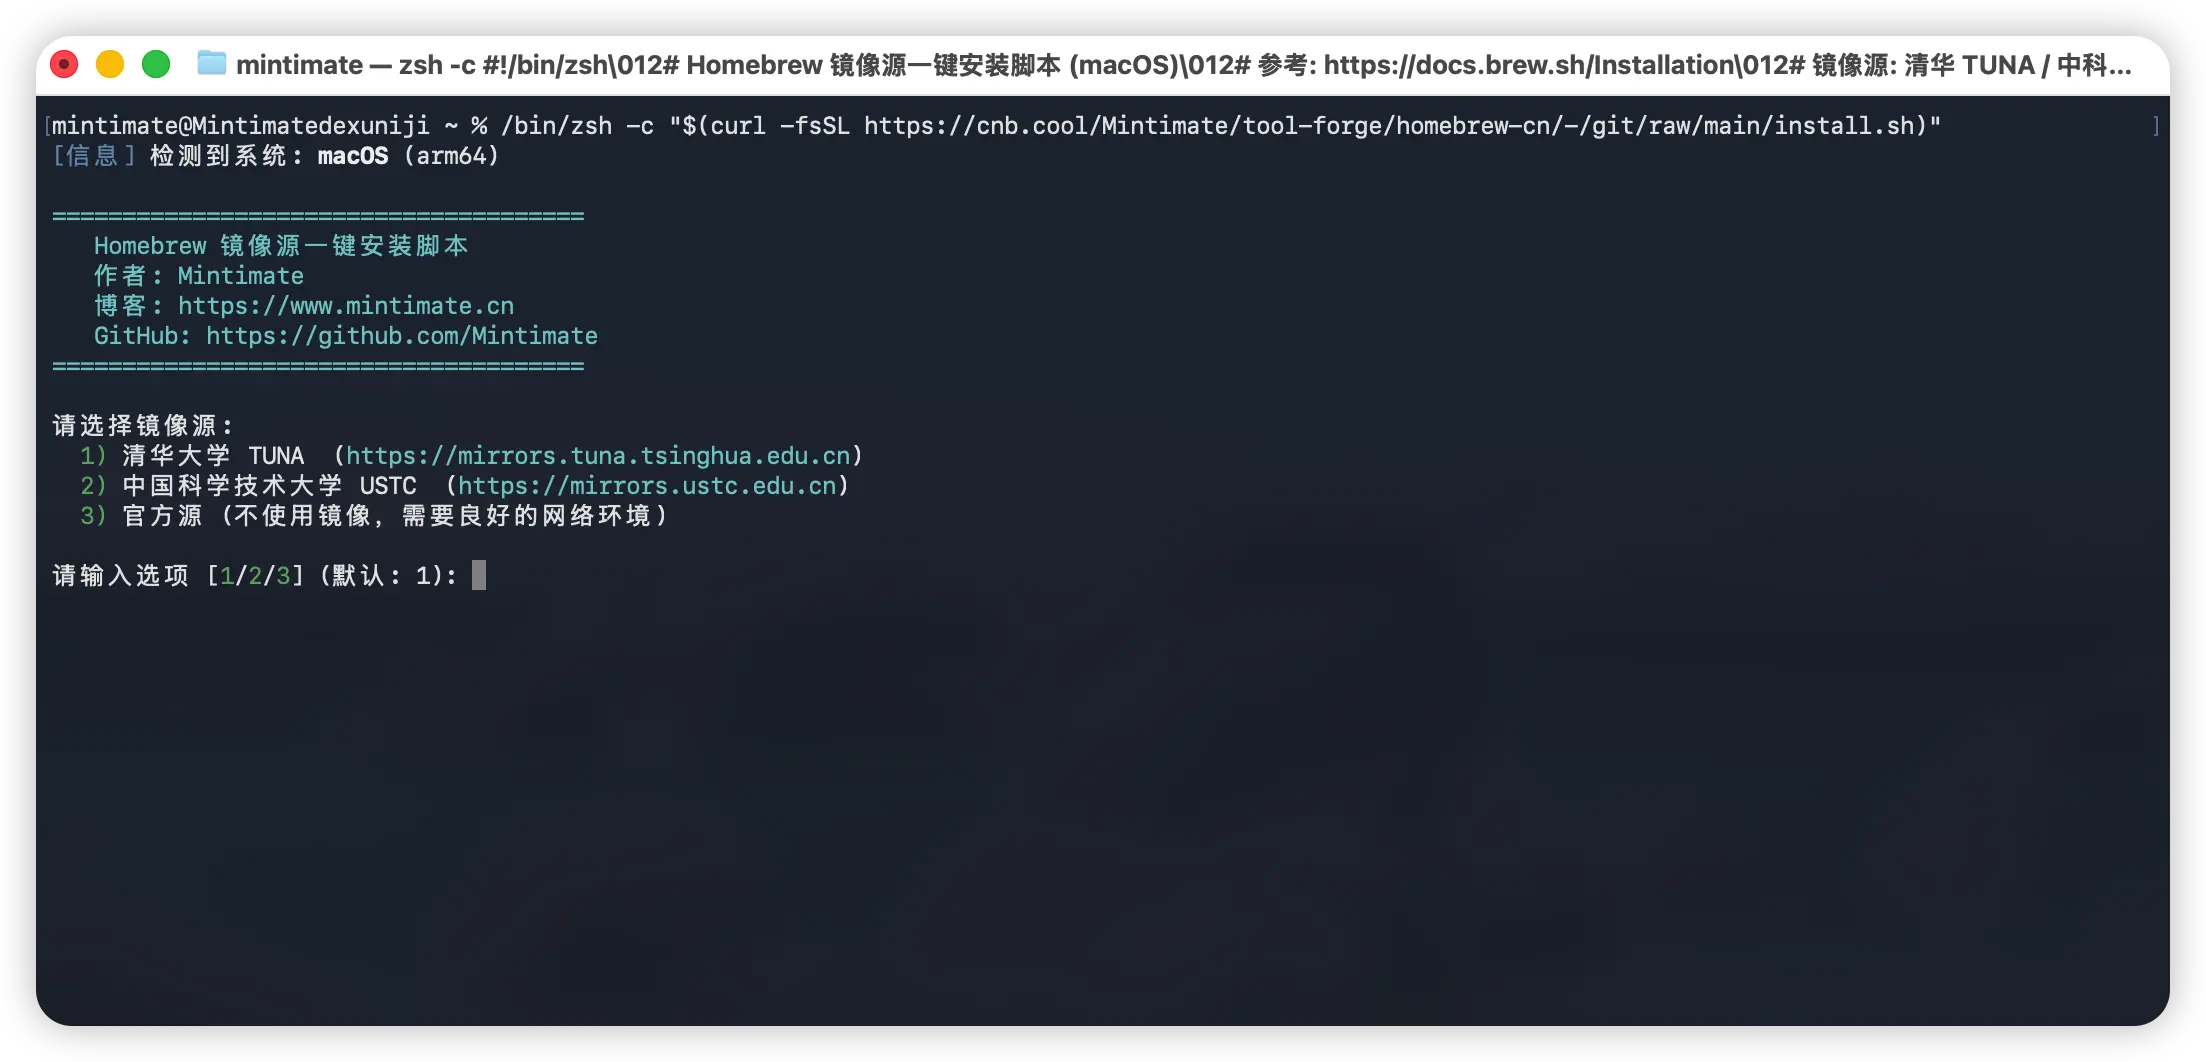
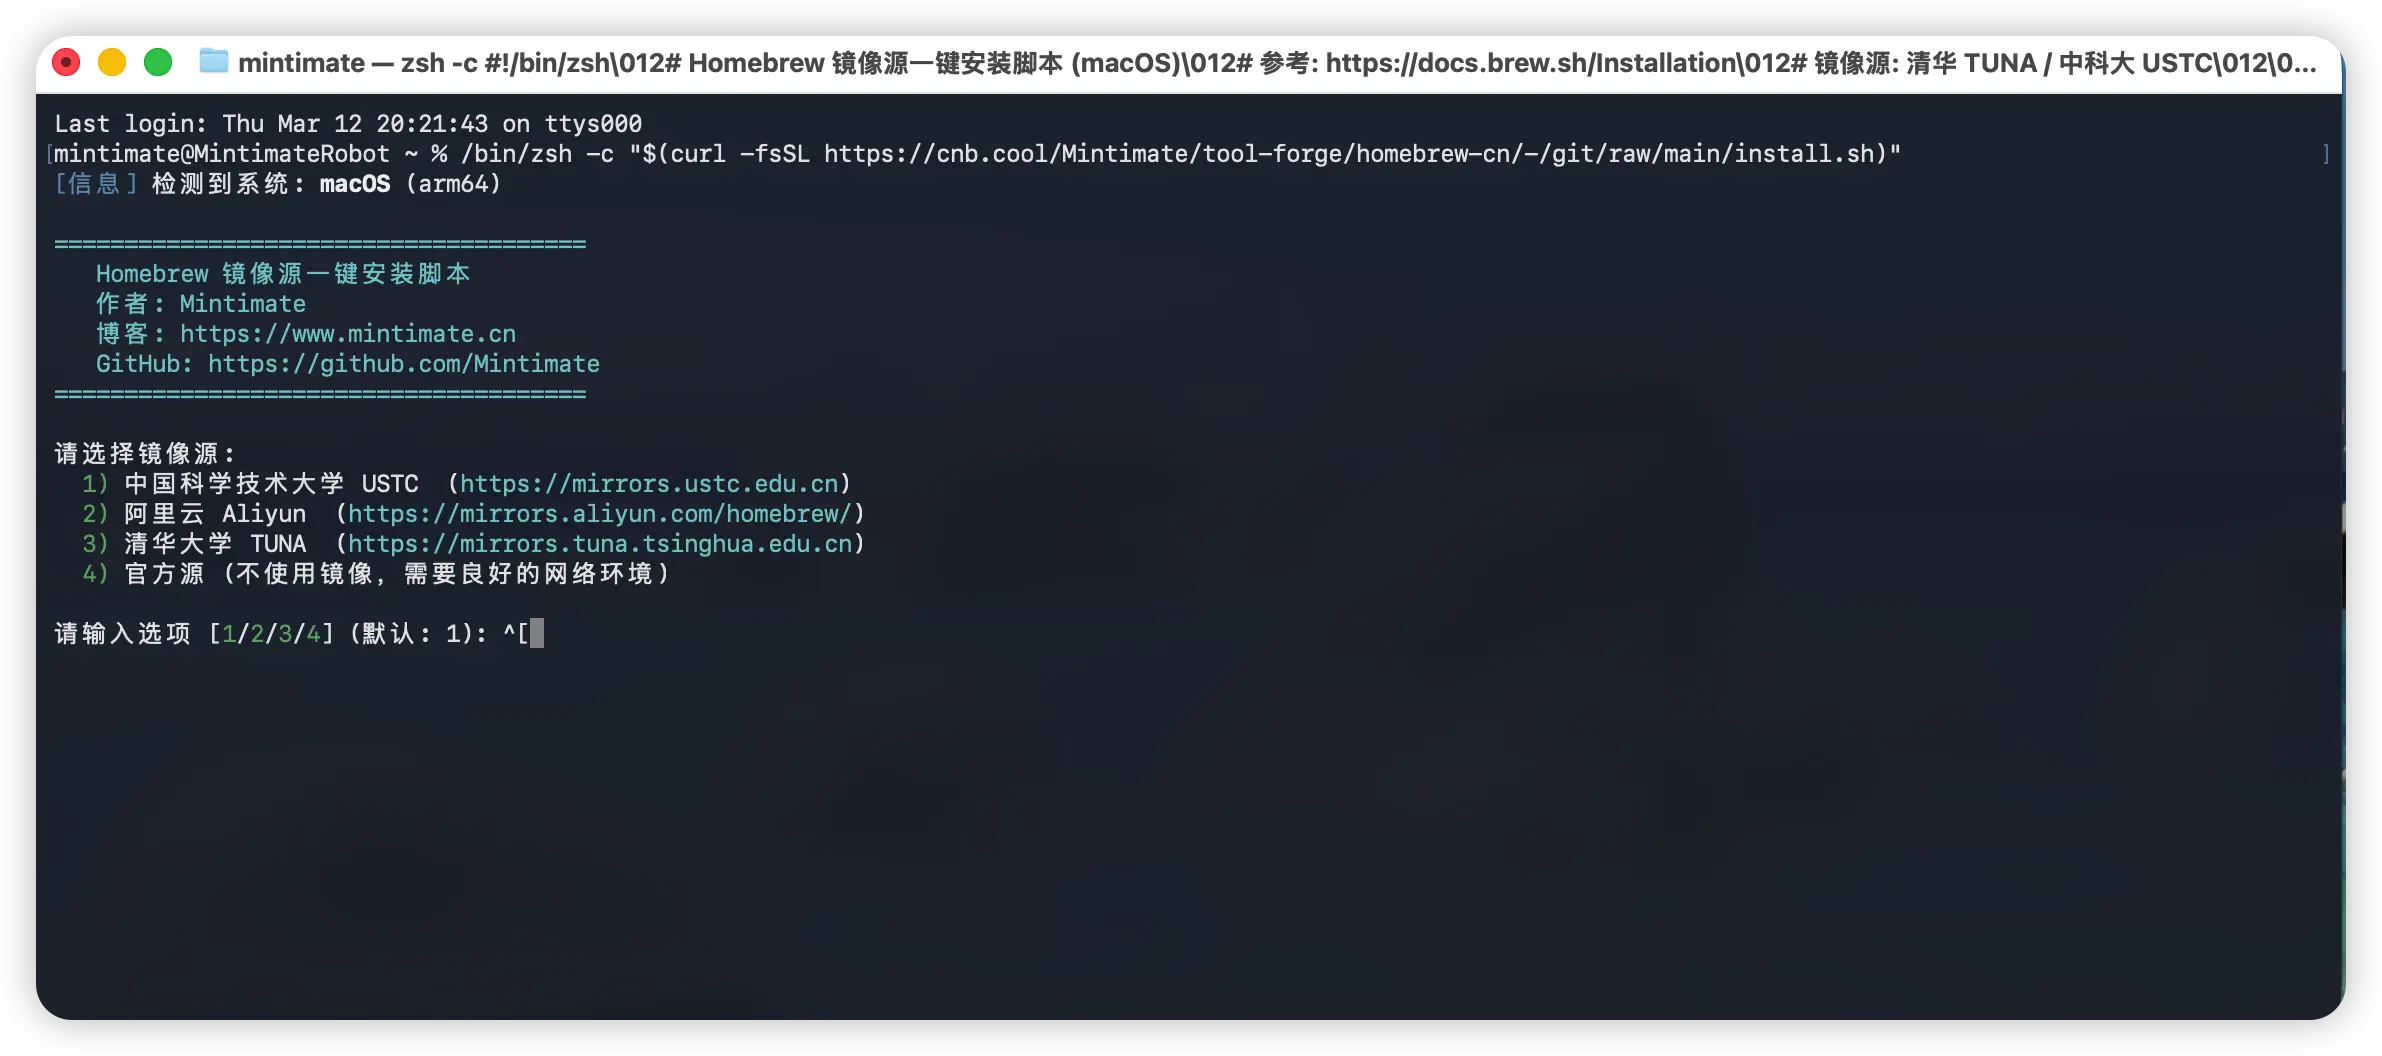
doc: 扩展镜像源为四选一并调整菜单与文档

Changed region(s): [[0.0, 0.0312, 0.9864, 0.5625], [0.0, 0.5938, 0.2466, 0.625]]

diff --git a/README.md b/README.md
@@ -4,7 +4,7 @@
 
 ## ✨ 功能特性
 
-- 🪞 **镜像源可选** — 支持清华 TUNA、中科大 USTC、官方源三选一
+- 🪞 **镜像源可选** — 支持中科大 USTC、阿里云 Aliyun、清华 TUNA、官方源四选一
 - 🖥 **macOS 全架构** — 兼容 Intel (x86_64) 和 Apple Silicon (M1/M2/M3/M4)
 - 🐚 **多 Shell 支持** — 自动适配 Zsh（默认）/ Bash，写入对应配置文件
 - 🔍 **智能检测** — 自动检测系统架构、前置依赖（git、curl 等）
@@ -62,19 +62,27 @@ cd homebrew-cn
 ```
 ======================================
    Homebrew 镜像源一键安装脚本
+   作者: Mintimate
+   博客: https://www.mintimate.cn
+   GitHub: https://github.com/Mintimate
 ======================================
 
 请选择镜像源:
-  1) 清华大学 TUNA  (https://mirrors.tuna.tsinghua.edu.cn)
-  2) 中国科学技术大学 USTC  (https://mirrors.ustc.edu.cn)
-  3) 官方源 (不使用镜像，需要良好的网络环境)
+  1) 中国科学技术大学 USTC  (https://mirrors.ustc.edu.cn)
+  2) 阿里云 Aliyun  (https://mirrors.aliyun.com/homebrew/)
+  3) 清华大学 TUNA  (https://mirrors.tuna.tsinghua.edu.cn)
+  4) 官方源 (不使用镜像，需要良好的网络环境)
 
-请输入选项 [1/2/3] (默认: 1):
+请输入选项 [1/2/3/4] (默认: 1):
 ```
+
+安装过程中，脚本会自动配置环境变量并下载 Homebrew：
+
+![安装过程](assets/processingShell.webp)
 
 安装完成后，执行以下命令使配置生效：
 
-![安装完成](assets/finishedInstall.webp)
+![安装完成](assets/finishedShell.webp)
 
 ```zsh
 source ~/.zshrc
@@ -91,8 +99,9 @@ brew doctor
 
 | 镜像源 | Git 仓库 | 二进制瓶 (Bottles) | API |
 |--------|----------|-------------------|-----|
-| **清华 TUNA** | `mirrors.tuna.tsinghua.edu.cn/git/homebrew/brew.git` | `mirrors.tuna.tsinghua.edu.cn/homebrew-bottles` | `mirrors.tuna.tsinghua.edu.cn/homebrew-bottles/api` |
 | **USTC** | `mirrors.ustc.edu.cn/brew.git` | `mirrors.ustc.edu.cn/homebrew-bottles` | `mirrors.ustc.edu.cn/homebrew-bottles/api` |
+| **阿里云** | `mirrors.aliyun.com/homebrew/brew.git` | `mirrors.aliyun.com/homebrew/homebrew-bottles` | `mirrors.aliyun.com/homebrew/homebrew-bottles/api` |
+| **清华 TUNA** | `mirrors.tuna.tsinghua.edu.cn/git/homebrew/brew.git` | `mirrors.tuna.tsinghua.edu.cn/homebrew-bottles` | `mirrors.tuna.tsinghua.edu.cn/homebrew-bottles/api` |
 
 脚本会自动配置以下环境变量：
 
